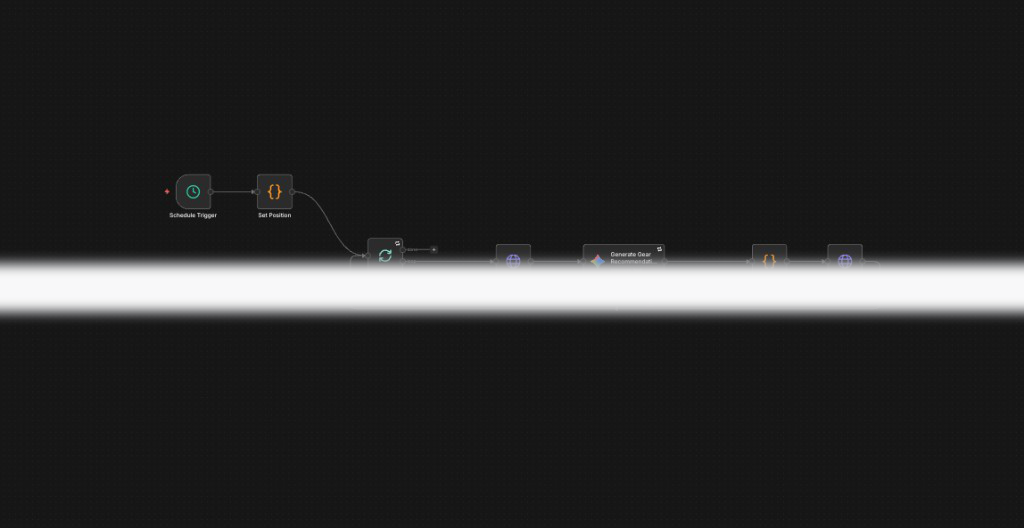
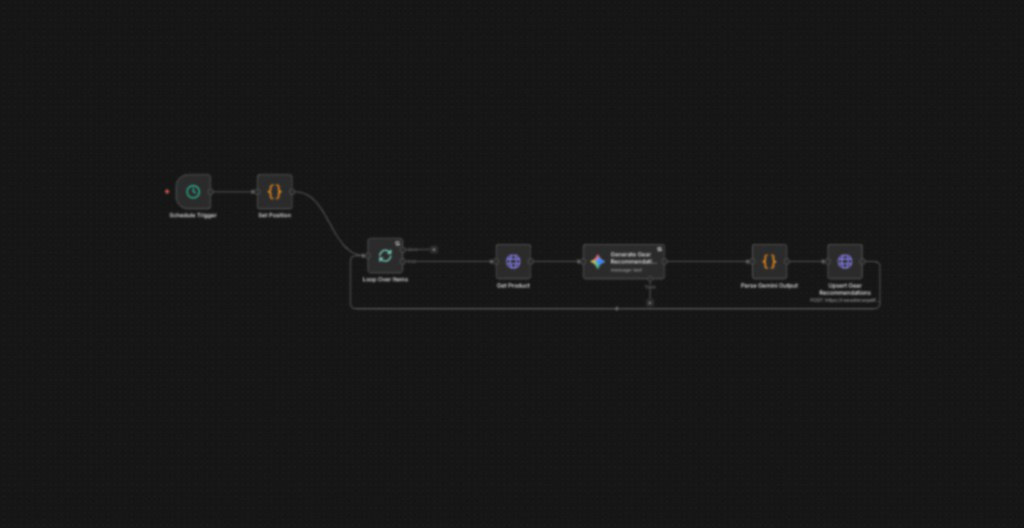
Fix n8n image blur type

Changed region(s): [[0.0, 0.4545, 1.0, 0.6061], [0.25, 0.3939, 0.2812, 0.4242], [0.1875, 0.3939, 0.2188, 0.4242]]

diff --git a/scripts/mask-workflow-subtext.py b/scripts/mask-workflow-subtext.py
@@ -1,13 +1,13 @@
 #!/usr/bin/env python3
 """
-Blur horizontal bands where n8n HTTP nodes show method + URL under the title.
+Apply a light, uniform blur to the whole workflow PNG (no strip / line masking).
 
-Unmasked originals (if you keep them): assets/n8n-workflow-originals/
-Each run copies from assets/n8n-workflow-originals/ first (when present), then applies the mask — avoids stacking blur.
+Copies from assets/n8n-workflow-originals/ first when present, then blurs the entire image
+so small URL text is slightly harder to read without banding artifacts.
 
   python3 scripts/mask-workflow-subtext.py
 
-Edit MASK_SPECS / BLUR_RADIUS (0 = no blur) / DIM_OVERLAY_ALPHA / MASK_FEATHER.
+Tune FULL_IMAGE_BLUR_RADIUS (0 = exact original after copy).
 """
 
 from __future__ import annotations
@@ -15,57 +15,34 @@ from __future__ import annotations
 import shutil
 from pathlib import Path
 
-from PIL import Image, ImageDraw, ImageFilter
+from PIL import Image, ImageFilter
 
 ROOT = Path(__file__).resolve().parents[1]
 WF_DIR = ROOT / "public" / "home-workflows"
 ORIGINALS_DIR = ROOT / "assets" / "n8n-workflow-originals"
 
-# Normalized rectangles: (left, top, right, bottom) in 0–1. Tight bands = subtitle row only.
-MASK_SPECS: dict[str, list[tuple[float, float, float, float]]] = {
-    "win-probability.png": [(0.0, 0.48, 1.0, 0.57)],
-    "gear-pipeline.png": [(0.0, 0.50, 1.0, 0.59)],
-    "top-news.png": [(0.0, 0.44, 1.0, 0.53), (0.0, 0.56, 1.0, 0.64)],
-    "site-chat.png": [
-        (0.0, 0.33, 1.0, 0.39),
-        (0.0, 0.51, 1.0, 0.57),
-        (0.0, 0.68, 1.0, 0.74),
-    ],
-}
+WORKFLOW_FILES = (
+    "win-probability.png",
+    "gear-pipeline.png",
+    "top-news.png",
+    "site-chat.png",
+)
 
-# Near-original look: no blur; only a faint dim on URL strips.
-BLUR_RADIUS = 0
-MASK_FEATHER = 6
-DIM_OVERLAY_ALPHA = 7
+# Whole-image softness (PIL GaussianBlur radius). Try 1 = subtle, 2 = a bit stronger.
+FULL_IMAGE_BLUR_RADIUS = 1
 
 
-def build_soft_mask(size: tuple[int, int], rects_norm: list[tuple[float, float, float, float]]) -> Image.Image:
-    w, h = size
-    mask = Image.new("L", size, 0)
-    draw = ImageDraw.Draw(mask)
-    for l, t, r, b in rects_norm:
-        x0, y0 = int(l * w), int(t * h)
-        x1, y1 = int(r * w), int(b * h)
-        draw.rectangle([x0, y0, x1, y1], fill=255)
-    return mask.filter(ImageFilter.GaussianBlur(MASK_FEATHER))
-
-
-def mask_image(path: Path, rects_norm: list[tuple[float, float, float, float]]) -> None:
+def process_image(path: Path) -> None:
     im = Image.open(path).convert("RGBA")
-    mask = build_soft_mask(im.size, rects_norm)
-    if BLUR_RADIUS > 0:
-        blurred = im.filter(ImageFilter.GaussianBlur(BLUR_RADIUS))
-        out = Image.composite(blurred, im, mask)
+    if FULL_IMAGE_BLUR_RADIUS <= 0:
+        out = im
     else:
-        out = im.copy()
-    if DIM_OVERLAY_ALPHA > 0:
-        dim = Image.new("RGBA", im.size, (12, 14, 20, DIM_OVERLAY_ALPHA))
-        out = Image.composite(dim, out, mask)
+        out = im.filter(ImageFilter.GaussianBlur(FULL_IMAGE_BLUR_RADIUS))
     out.save(path, optimize=True)
 
 
 def main() -> None:
-    for name, rects in MASK_SPECS.items():
+    for name in WORKFLOW_FILES:
         path = WF_DIR / name
         original = ORIGINALS_DIR / name
         if original.is_file():
@@ -73,8 +50,8 @@ def main() -> None:
         elif not path.is_file():
             print("skip (missing original and dest):", name)
             continue
-        mask_image(path, rects)
-        print("masked:", path.relative_to(ROOT))
+        process_image(path)
+        print("processed:", path.relative_to(ROOT))
 
 
 if __name__ == "__main__":
